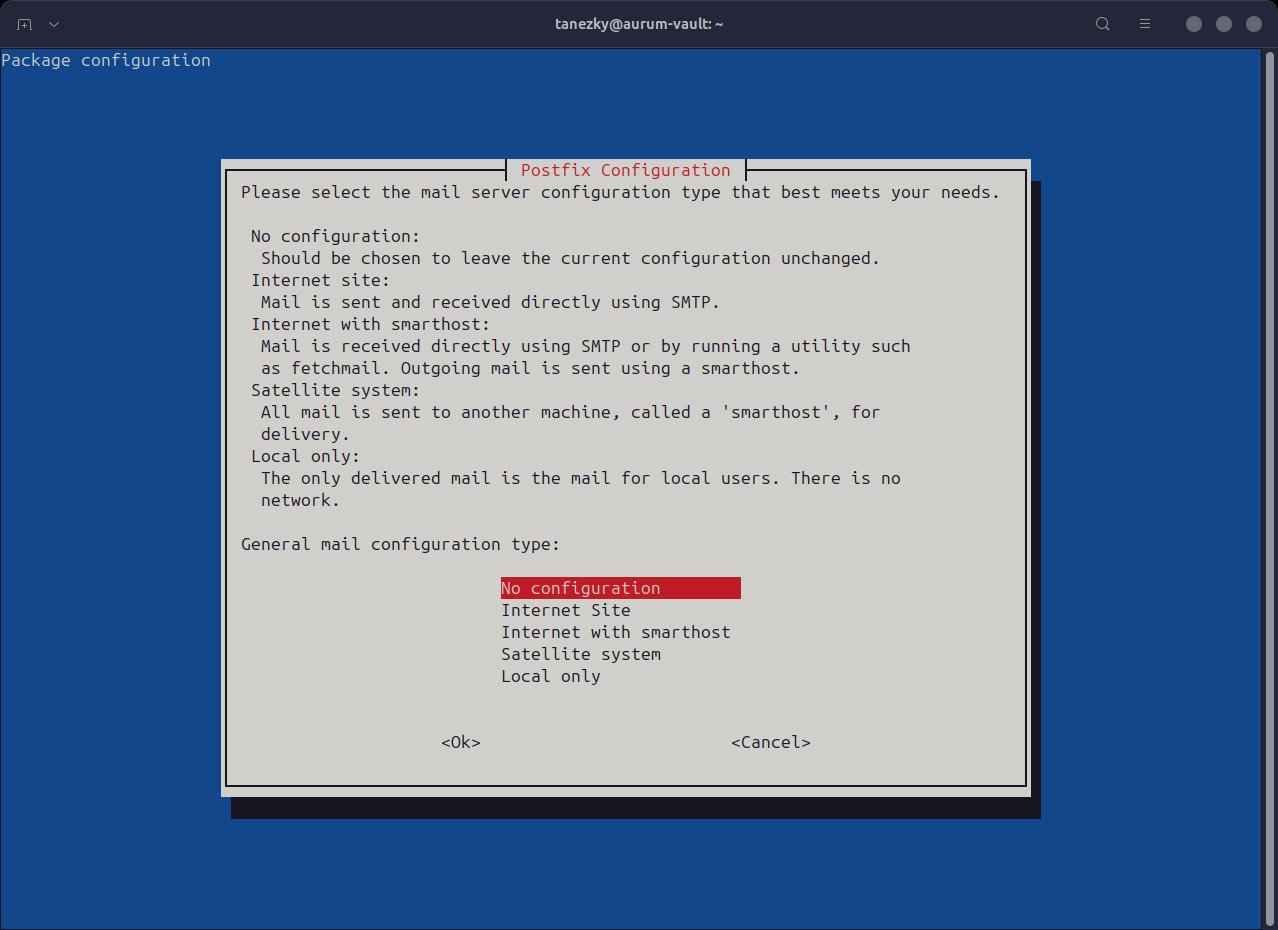
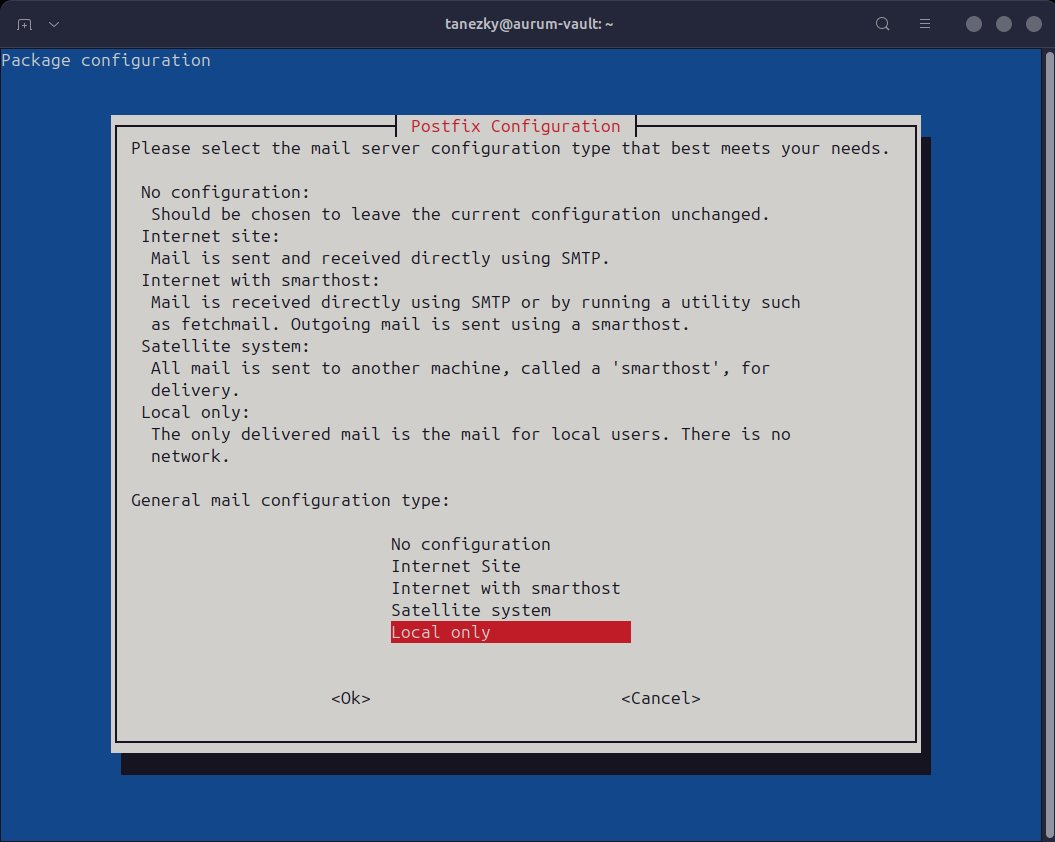
Update articles Prepare testing Proxmox and Proxmox Part 1.

Changed region(s): [[0.091, 0.1235, 0.8796, 0.9264], [0.0, 0.0, 1.0, 1.0]]

diff --git a/_posts/nas/2024-08-24-proxmox-part-1-encrypted-installation.md b/_posts/nas/2024-08-24-proxmox-part-1-encrypted-installation.md
@@ -268,11 +268,11 @@ After reboot install Proxmox VE packages
 apt install -y proxmox-ve postfix open-iscsi chrony
 ```
 ![First SSH Connection](/assets/img/posts/pve-part1-installation/pve-part1-installation09.jpg){: width="1278" height="930" .center}
-_For Postfix Configuration I chose No configuration since I don't have a mail server._
+_For Postfix Configuration I chose Local only since I don't have a mail server (yet)._
 
 
 #### Cleanup
-Remove Debian kernel, unnecessary packages, update grub and remove subscription repository
+After reboot, remove Debian kernel, unnecessary packages, update grub and remove subscription repository
 
 ```shell
 # Remove kernel and unnecessary packages
@@ -347,3 +347,6 @@ Installation is complete, it's time to start using the new setup.
 Go to admin web-interface <https://10.42.42.150:8006>
 
 Use your `root` credentials and **Realm:** Linux PAM standard authentication
+
+#### Page updates
+29.12.2024 - Update Postfix Configuration, add reboot instruction to cleanup.

diff --git a/_posts/nas/2024-08-14-prepare-testing-proxmox.md b/_posts/nas/2024-08-14-prepare-testing-proxmox.md
@@ -84,7 +84,7 @@ update-grub2
 
 
 # Ensure kernel modules are loaded
-nano modules-load.d/iommu-vfio.conf
+nano /etc/modules-load.d/iommu-vfio.conf
 # Add following to the file
 vfio
 vfio_iommu_type1
@@ -121,3 +121,6 @@ dmesg | grep -e DMAR -e IOMMU
 [    0.477001] DMAR: dmar1: Using Queued invalidation
 [    0.479106] DMAR: Intel(R) Virtualization Technology for Directed I/O
 ```
+
+#### Page updates
+29.12.2024 - Add /etc/ in front of modules-load.d
